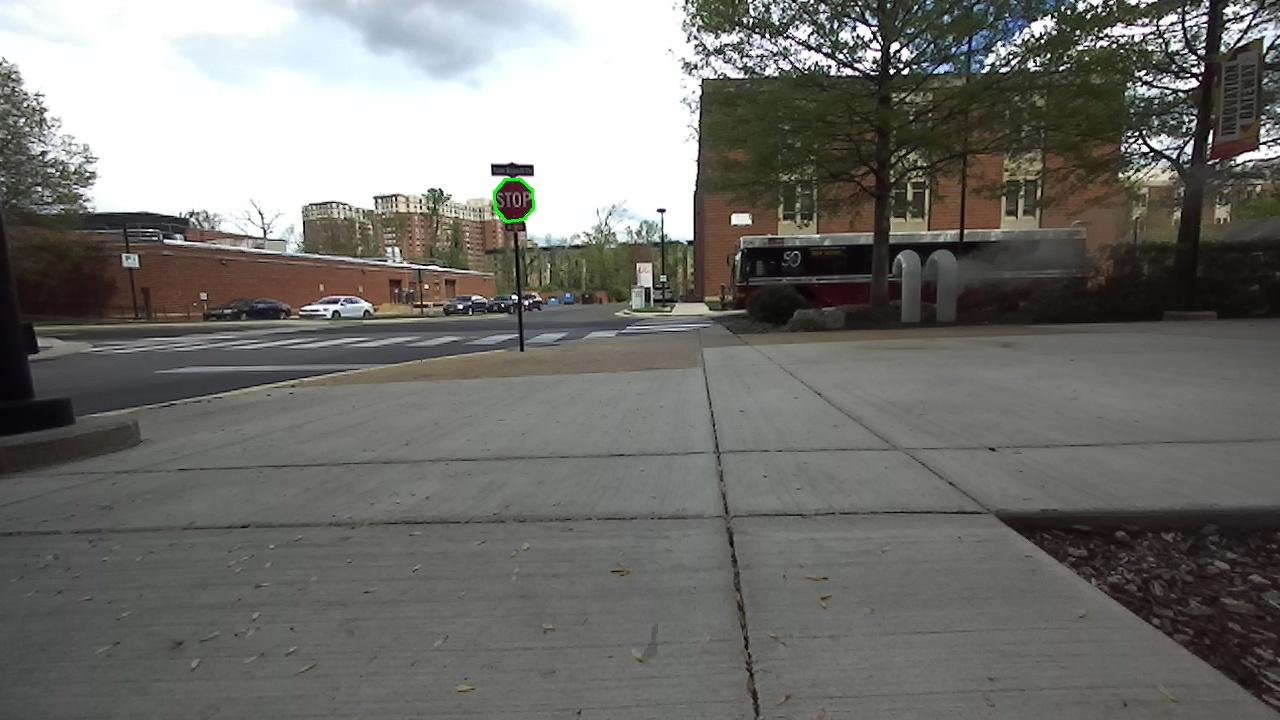
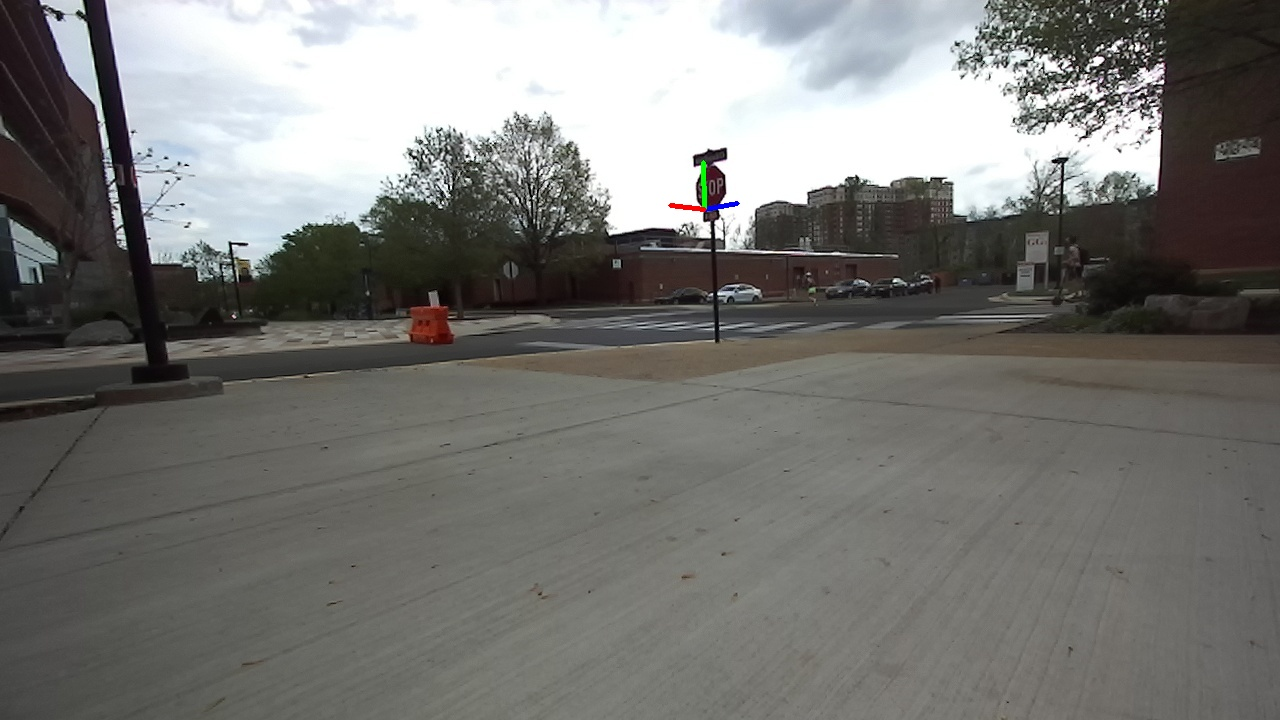
Updated code for drawing estimated pose 3D frame on image

diff --git a/scripts/threshold_hist_contour.py b/scripts/threshold_hist_contour.py
@@ -31,7 +31,7 @@ import base_cam_transformation as trans
 # Reading the path
 curr_pwd = os.getcwd()
 img_path = curr_pwd + "/.." + '/src_imgs/'
-CASE = 2
+CASE = 3
 margin_percent = 1 / 100
 dist_coeffs = np.array([0.0, 0.0, 0.0, 0.0, 0.0])
 K = np.array([[521.8381958007812, 0.0, 684.0656127929688], 
@@ -227,8 +227,7 @@ for contour in contours:
     if len(approx) >= 8:  # Assuming an octagon has 8 vertices
         print(approx)
         final_img_pts = approx.copy().reshape(approx.shape[0],2)
-        cv2.drawContours(img, [final_img_pts], -1, (0, 255, 0), 2)
-        # final_img_pts.sort()
+        # cv2.drawContours(img, [final_img_pts], -1, (0, 255, 0), 2)
         final_img_pts = final_img_pts[final_img_pts[:, 1].argsort()]
         top4_pts = final_img_pts[:4]
         top4_pts = top4_pts[top4_pts[:, 0].argsort()]
@@ -237,7 +236,7 @@ for contour in contours:
         final_img_pts = np.concatenate((top4_pts, bottom4_pts))
         print(final_img_pts.shape)
         print(pt_src.pts.shape)
-        print(final_img_pts[::2,:])
+        print(final_img_pts)
 
         H, _ = cv2.findHomography(final_img_pts, pt_src.pts)
         compute_pose(H)
@@ -257,6 +256,22 @@ for contour in contours:
         rotation_matrix = r.as_matrix()
         print("The roll, pitch, yaw are: ", roll, pitch, yaw )
         print(rotation_matrix)
+
+
+        # Draw coordinate frame on image
+        axis_len = 700
+        axis_thickness = 3
+        axes = np.array([[axis_len,0,0], [0,axis_len,0], [0,0,axis_len]], dtype=np.float32)
+        img_axes, jacobian = cv2.projectPoints(axes, r_vec, t_vec, K, dist_coeffs)
+        img_axes = img_axes.reshape(-1, 2).astype(np.int32)
+        axis_origin = final_img_pts[5]
+        cv2.line(img, axis_origin, img_axes[0], (255,0,0), axis_thickness)
+        cv2.line(img, axis_origin, img_axes[1], (0,255,0), axis_thickness)
+        cv2.line(img, axis_origin, img_axes[2], (0,0,255), axis_thickness)
+
+        print(img_axes)
+
+
         # print("Rotation matrix", )
         # rotation_matrix_to_euler_angles(R)
 

diff --git a/scripts/octagon_points.py b/scripts/octagon_points.py
@@ -31,8 +31,13 @@ pts = np.vstack((pts, np.array([down_pt_x2, down_pts_y])))
 pts = np.vstack((pts, np.array([oct_size, 0])))
 zeros = np.array([[0], [0], [0], [0], [0], [0], [0], [0]])
 
-pts = pts + np.array([0, 178.5477061886])
+# pts = pts + np.array([0, 178.5477061886])
+
+pts = pts + np.array([-178.5477061886, 178.5477061886])
+
 pts_3d = np.concatenate([pts, zeros], axis=1)
+
+# print(pts_3d)
 
 # plt.plot(pts[:, 0], pts[:, 1])
 # plt.xlim([-700, 700])

diff --git a/scripts/base_cam_transformation.py b/scripts/base_cam_transformation.py
@@ -23,5 +23,5 @@ T_cam_center     = compute_T_from_vecs(1.61079632679, -1.57079632679, 0.0, 0.06,
 
 T_final = np.matmul(T_base_cam_mount, T_cam_mount_cam, T_cam_center)
 roll_f, pitch_f, yaw_f = rotation_matrix_to_euler_angles(T_final[:3,:3])
-print(T_final)
-print(roll_f, pitch_f, yaw_f)
+# print(T_final)
+# print(roll_f, pitch_f, yaw_f)
